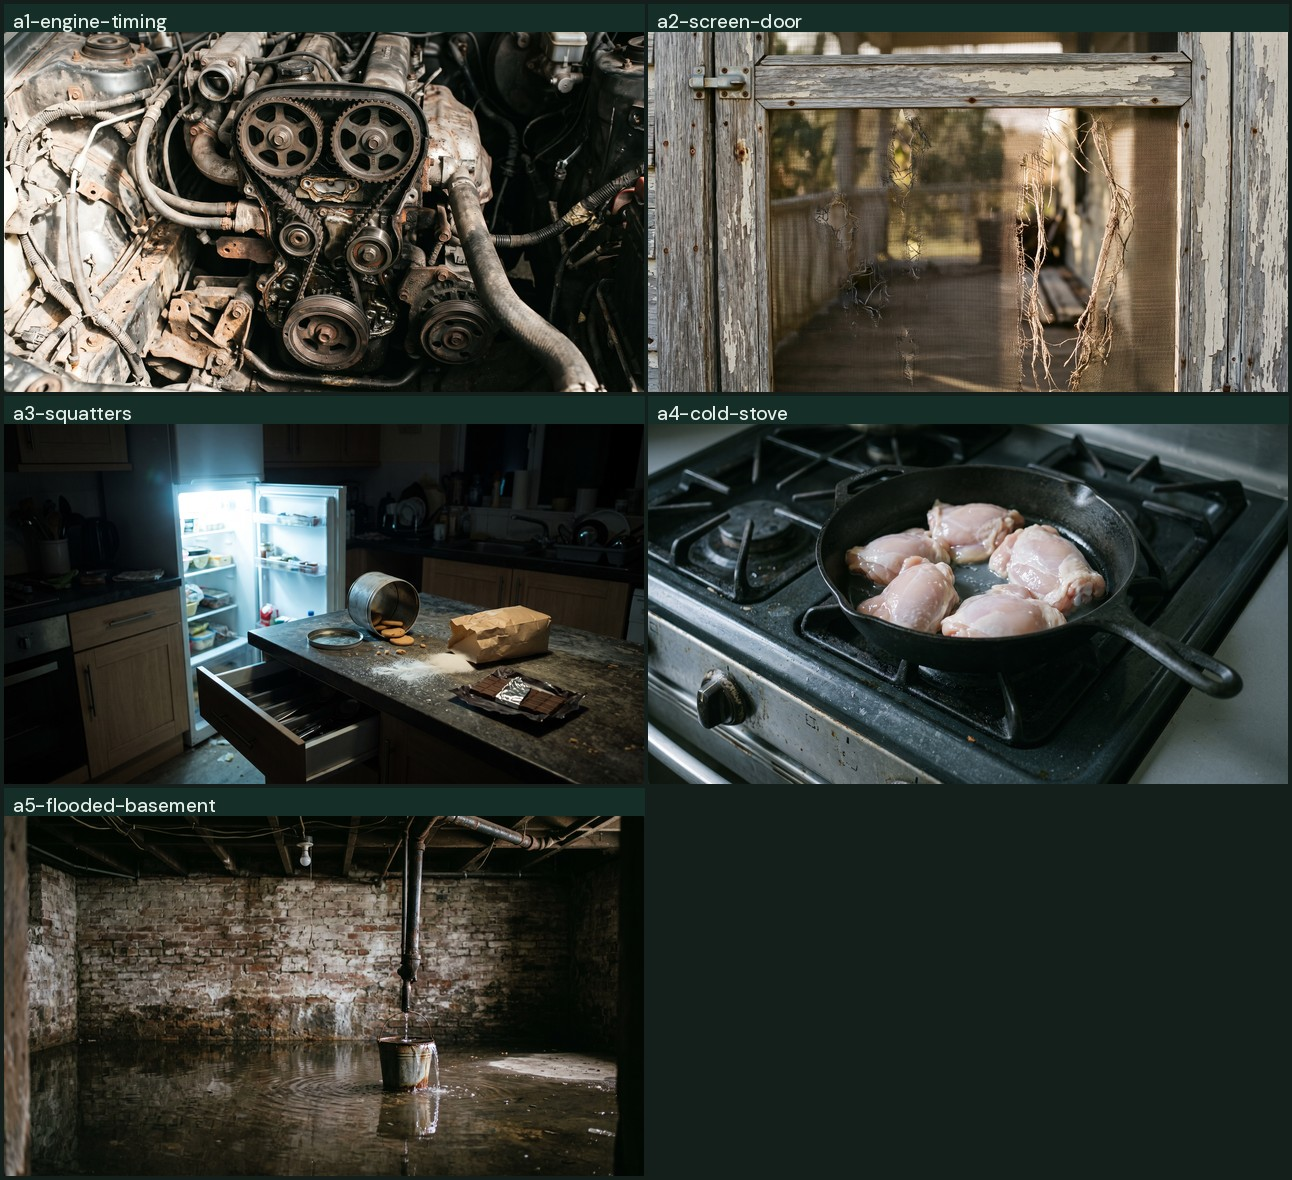
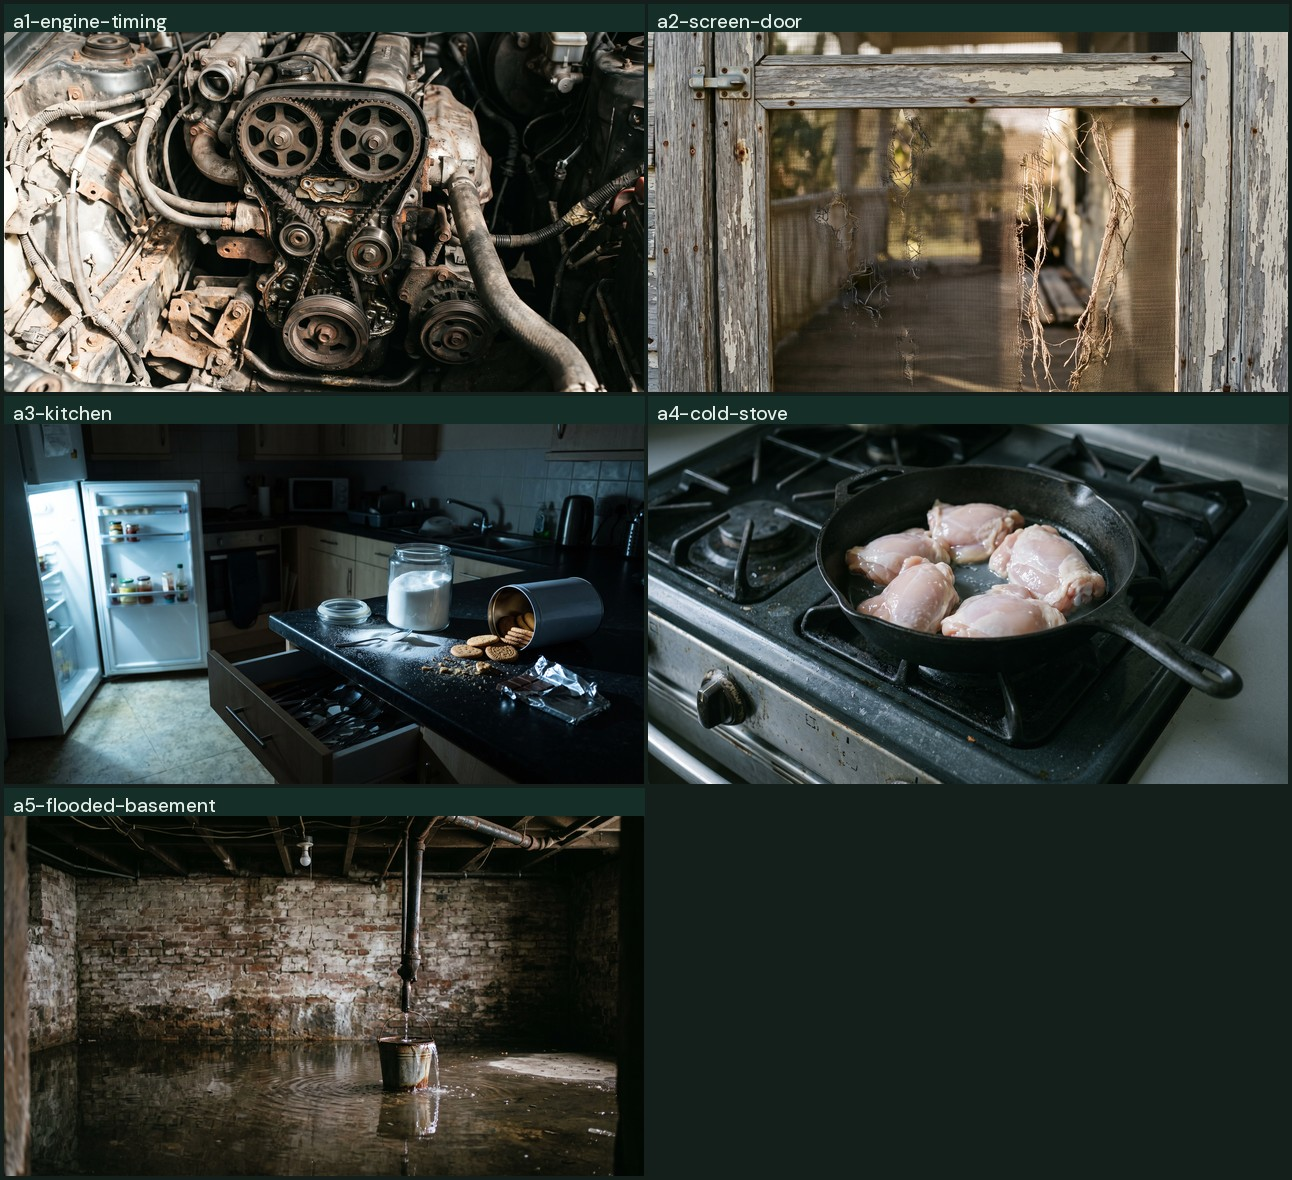
Re-shoot the lesson 03 sugar frame as a glass canister
Steve: the brown bag looked like something illegal was falling out of
it. Correct, and self-inflicted. Stripping the packaging of all
printing to satisfy the no-text rule left a plain kraft bag tipped over
with white powder spilling from it. Removing the label removed the
thing that made it sugar.

Three fixes were generated with the rest of the scene held constant. A
blue and white sack reads as sugar but pushes the fridge to the far
right so it stops being the light source. A white sack is still white
powder coming out of a bag. The glass canister has no packaging to
misread at all and keeps the original composition, so it wins.

The general rule, recorded: when a no-text constraint strips an object
of the thing that identifies it, change the object rather than the
label.

Claude-Session: https://claude.ai/code/session_013gugvQ9ie5ZPmjYiiUPcYq

Changed region(s): [[0.0, 0.3356, 0.4954, 0.6712]]

diff --git a/Website/mockups/analogies/README.md b/Website/mockups/analogies/README.md
@@ -64,3 +64,34 @@ originals are called. The heroes batch had an exact-collision slip
 
 `.png` is the 2752x1536 original, `.jpg` is 1600x893. `upload/` holds exactly
 the five files to upload and nothing else.
+
+---
+
+## The sugar re-shoot, 2026-10-27
+
+Steve on the first kitchen frame: the brown bag looked like something illegal
+was falling out of it.
+
+He is right, and it was caused by over-applying the no-text rule. Stripping the
+packaging of all printing left a plain kraft paper bag tipped over with white
+powder spilling from it, which is a drug-bust still life. **Removing the label
+removed the thing that made it sugar.**
+
+Three fixes were generated with the rest of the scene held constant.
+
+| File | Fix | Verdict |
+|---|---|---|
+| `a3-alt-blue-bag` | Blue and white paper sack, upright | Bag reads, but the scene changed: the fridge is pushed to the far right and stops being the light source |
+| `a3-alt-canister` | **Clear glass canister, lid off** | **Chosen.** No packaging to misread at all, and the composition stays closest to the original |
+| `a3-alt-white-bag` | White paper sack on its side | Better than brown, but it is still white powder coming out of a bag |
+
+The lesson worth keeping: when a no-text rule strips an object of the thing that
+identifies it, **change the object rather than the label**. A glass jar of sugar
+cannot be mistaken for anything else, and it needs no printing to say what it is.
+
+Checked at native resolution: glass jar of sugar with the lid off, spoon in the
+spill, biscuit tin on its side, chocolate with the foil back, cutlery drawer
+open. The fridge jars carry blurred label shapes but nothing resolves.
+
+`a3-kitchen.png` is the chosen frame. `a3-squatters-brownbag-rejected.png` is
+the original, kept for the record.
